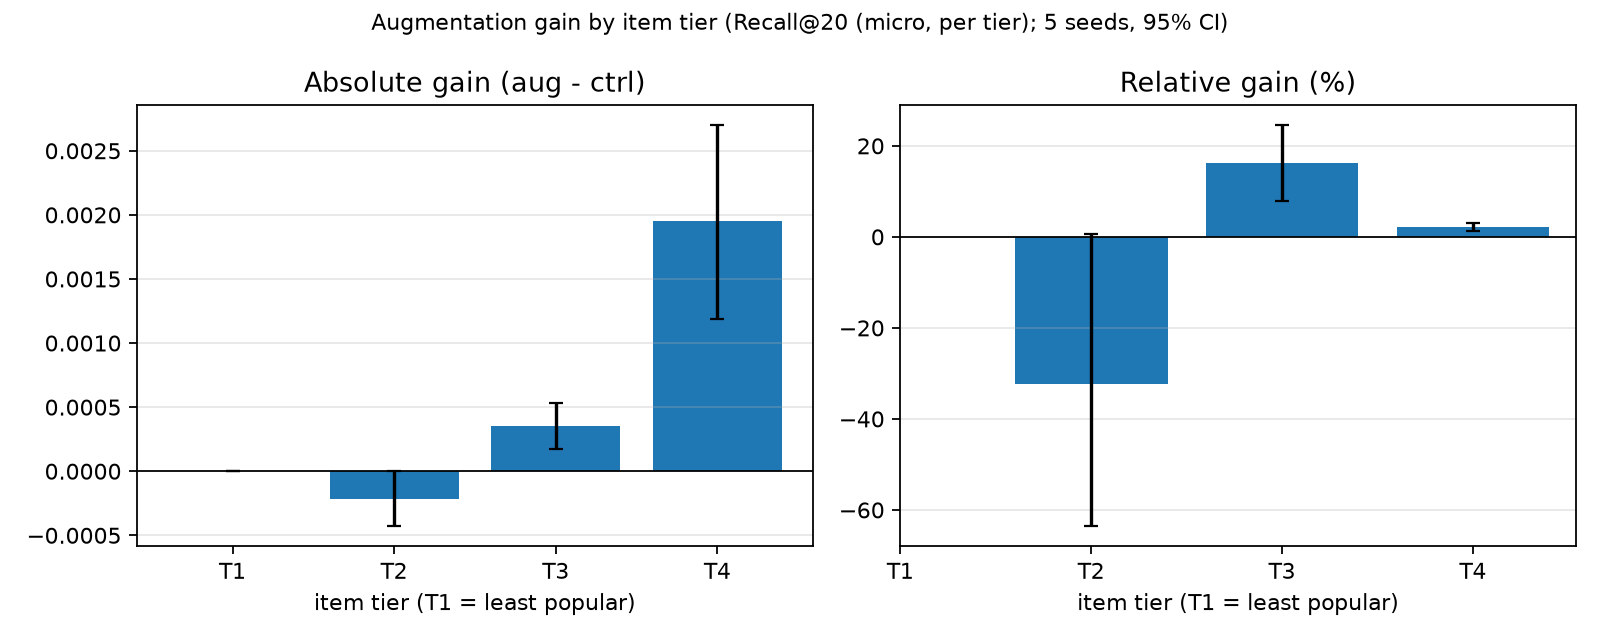
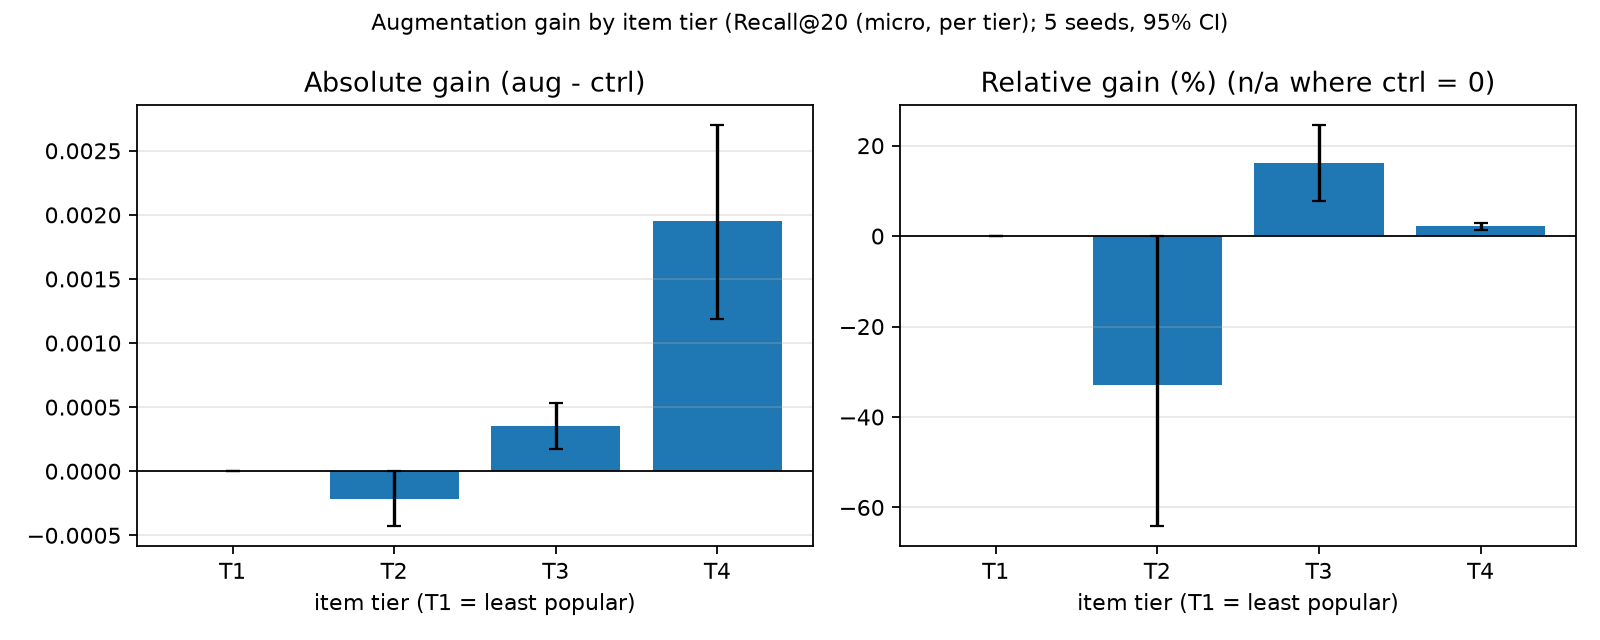
fix: remove invalid torchvision line from requirements; regenerate strata_item figure; add CI and real embedding test

diff --git a/tests/test_embedding.py b/tests/test_embedding.py
@@ -1,4 +1,11 @@
-from sentence_transformers import SentenceTransformer
-model = SentenceTransformer('all-MiniLM-L6-v2')
-embedding = model.encode('測試句子')
-print(embedding.shape)
+"""Smoke test: sentence-transformers can load the project's embedding model and encode a sentence.
+Downloads the model on first run (needs network); skipped if sentence-transformers is not installed."""
+import pytest
+
+st = pytest.importorskip("sentence_transformers")
+
+
+def test_embedding_shape():
+    model = st.SentenceTransformer("BAAI/bge-small-zh-v1.5")
+    emb = model.encode("測試句子")
+    assert emb.shape == (512,)
